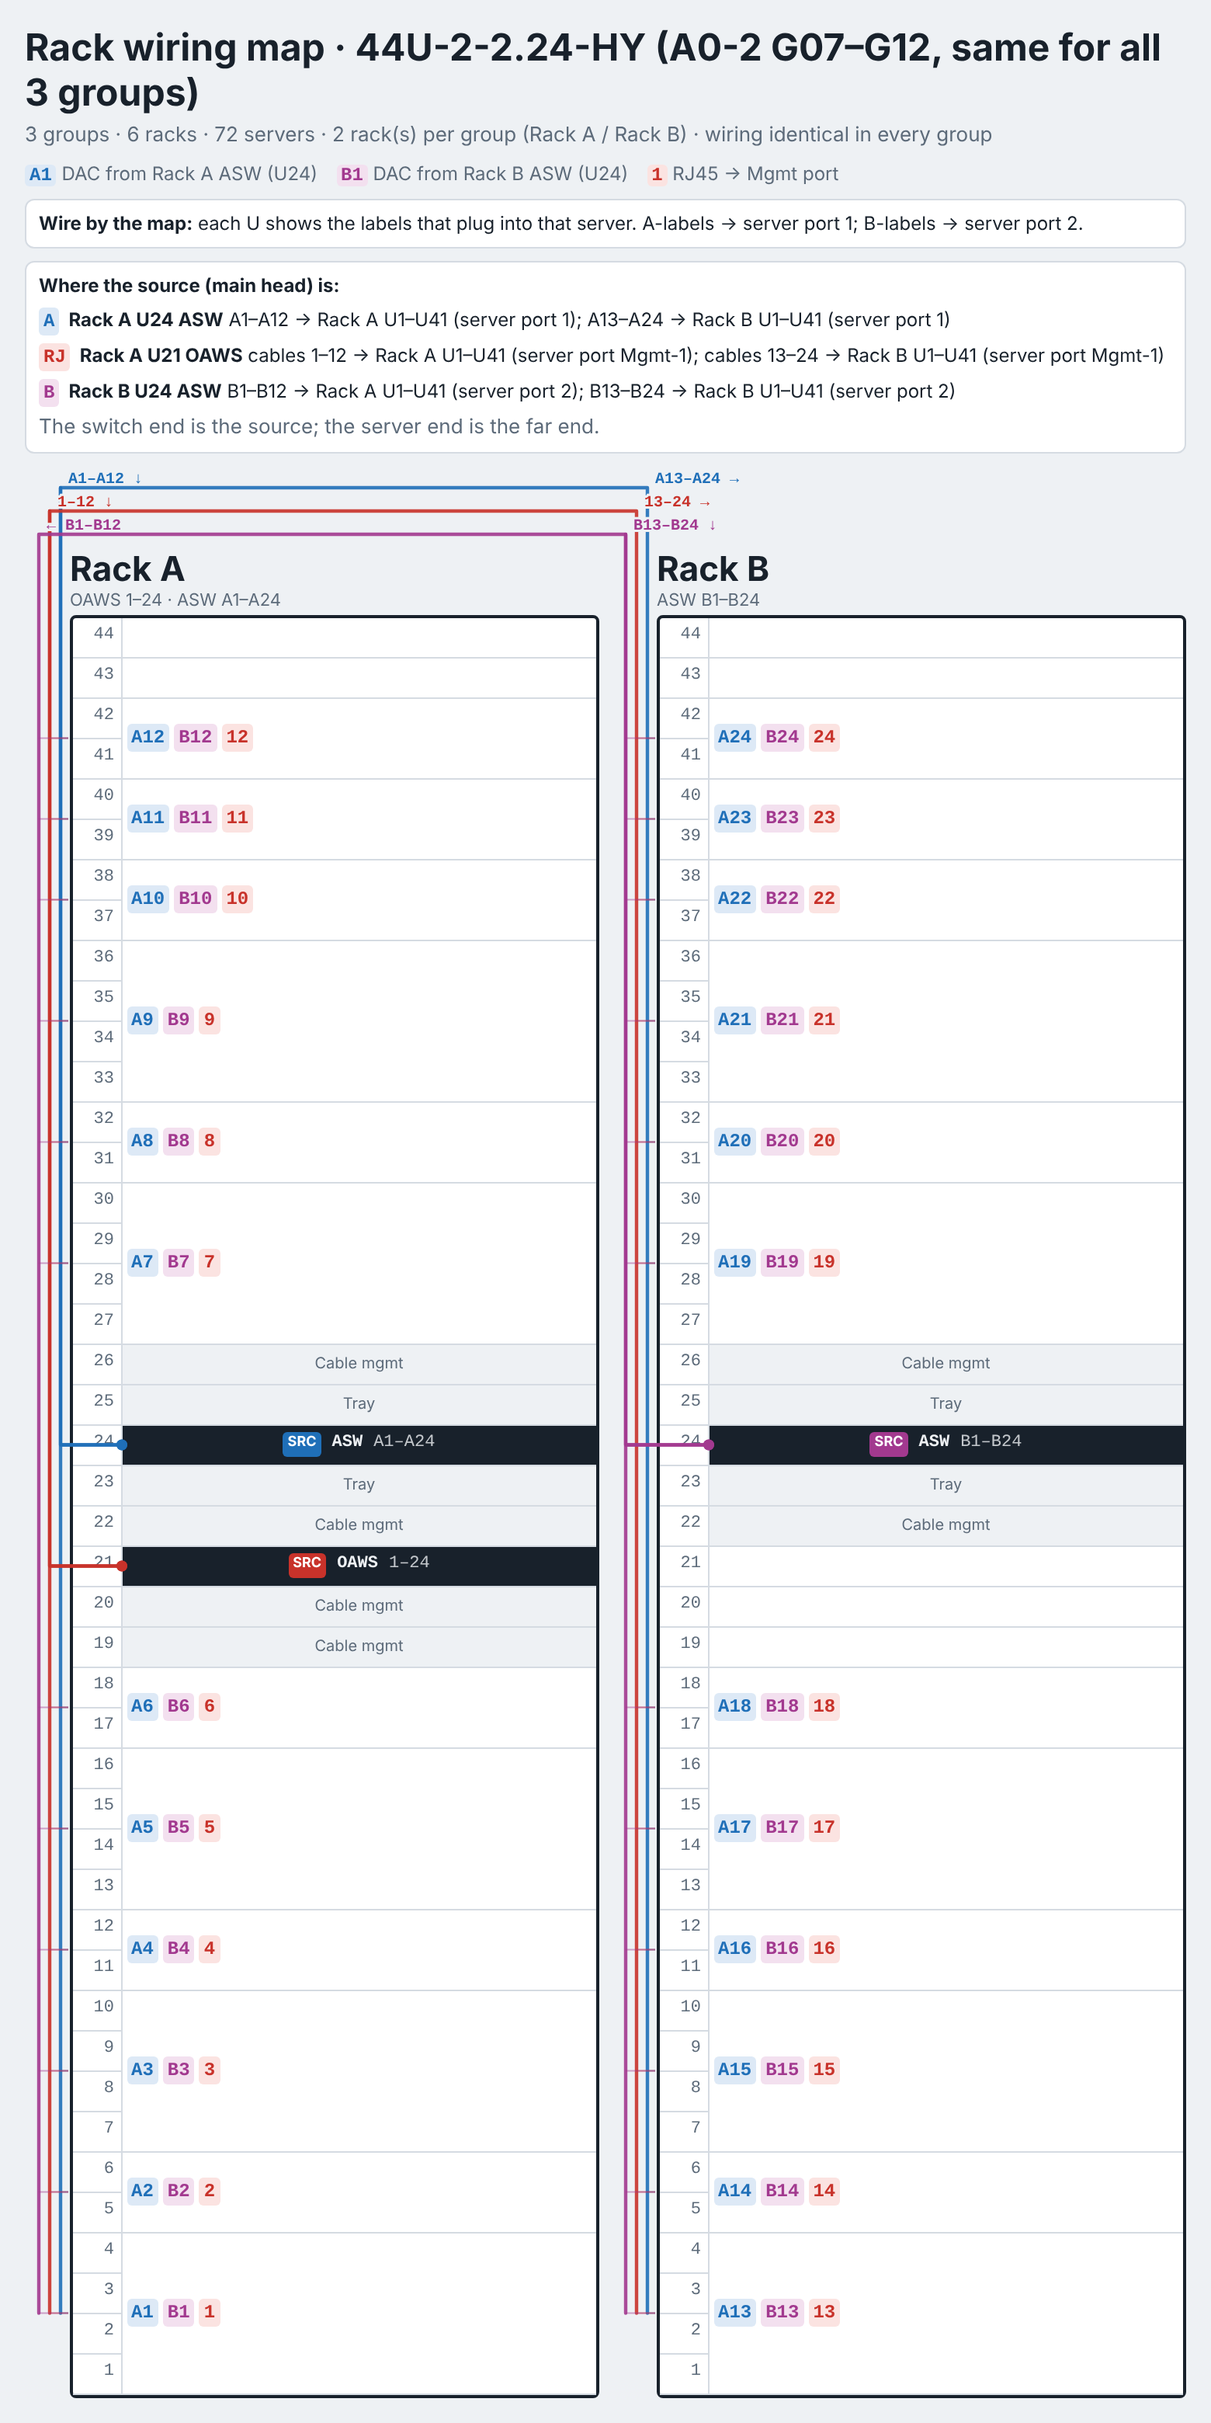
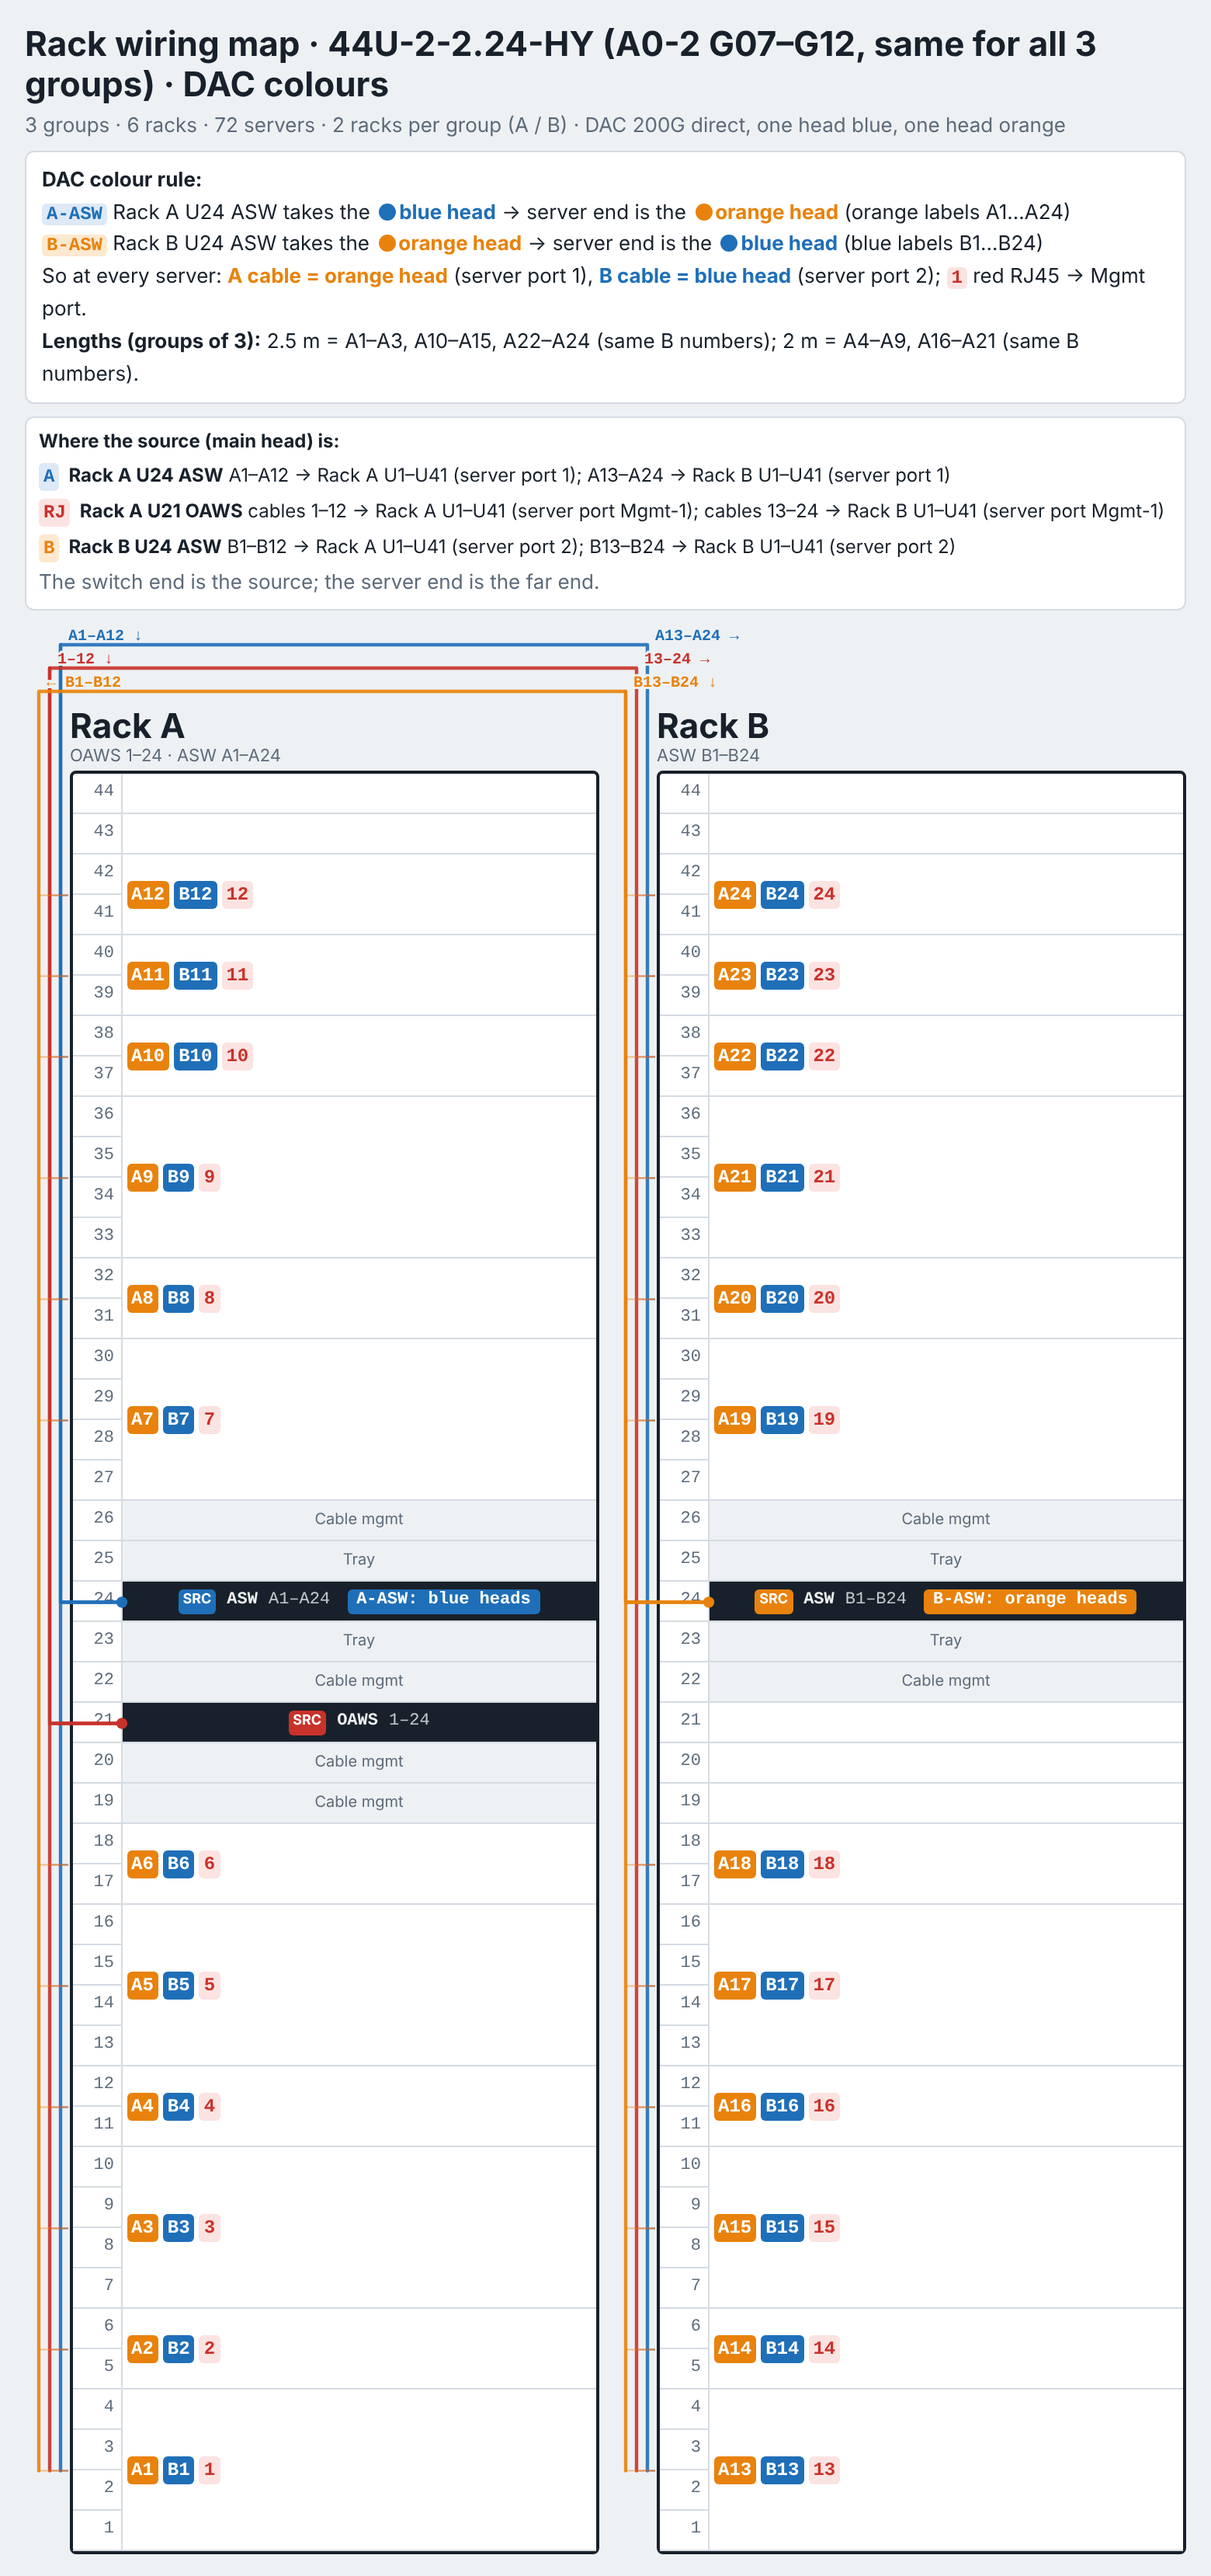
HY map: DAC head colours (A-ASW blue, B-ASW orange) and cable lengths
Claude-Session: https://claude.ai/code/session_01MMKhhMn559M3EuXp9otRXW

Changed region(s): [[0.0, 0.0, 0.9846, 0.9949], [0.9538, 0.2487, 0.9846, 0.3109]]

diff --git a/maps/index.html b/maps/index.html
@@ -42,7 +42,7 @@ const PK=[
   {k:'TOR',name:'44U-3-TOR-Gen-100G-48-F-STD',zh:'5 组 × 3 柜（A/B/C）· AOC 200G 1分2',en:'5 groups × 3 racks (A/B/C) · AOC 200G 1-to-2',fi:'5 ryhmää × 3 räkkiä (A/B/C) · AOC 200G 1→2'},
   {k:'MOR',name:'44U-1-MOR-EBS-100G-24-F-STD（手搓套餐）',zh:'6 个单柜 · DAC 100G 直连',en:'6 single racks · DAC 100G direct',fi:'6 yksittäistä räkkiä · DAC 100G suora'},
   {k:'POP',name:'44U-2-TOR-Gen-100G-48-F-STD（ASW-POP）',zh:'2 组 × 2 柜：A0-3 E08/E09、F08/F09 · AOC 10G 直连',en:'2 groups × 2 racks: A0-3 E08/E09, F08/F09 · AOC 10G direct',fi:'2 ryhmää × 2 räkkiä: A0-3 E08/E09, F08/F09 · AOC 10G suora'},
-  {k:'HY',name:'44U-2-2.24-HY',zh:'3 组 × 2 柜：A0-2 G07–G12 · DAC 200G 直连 + OAWS U21 网线',en:'3 groups × 2 racks: A0-2 G07–G12 · DAC 200G direct + OAWS U21 RJ45',fi:'3 ryhmää × 2 räkkiä: A0-2 G07–G12 · DAC 200G suora + OAWS U21 RJ45'}
+  {k:'HY',name:'44U-2-2.24-HY',zh:'3 组 × 2 柜：A0-2 G07–G12 · DAC 200G 直连（A-ASW 插蓝头、B-ASW 插橙头）+ OAWS U21 网线',en:'3 groups × 2 racks: A0-2 G07–G12 · DAC 200G direct (A-ASW blue heads, B-ASW orange heads) + OAWS U21 RJ45',fi:'3 ryhmää × 2 räkkiä: A0-2 G07–G12 · DAC 200G suora + OAWS U21 RJ45'}
 ];
 let lang;try{lang=localStorage.getItem('fi307_lang')}catch(e){}
 const nl=(navigator.language||'').toLowerCase();
